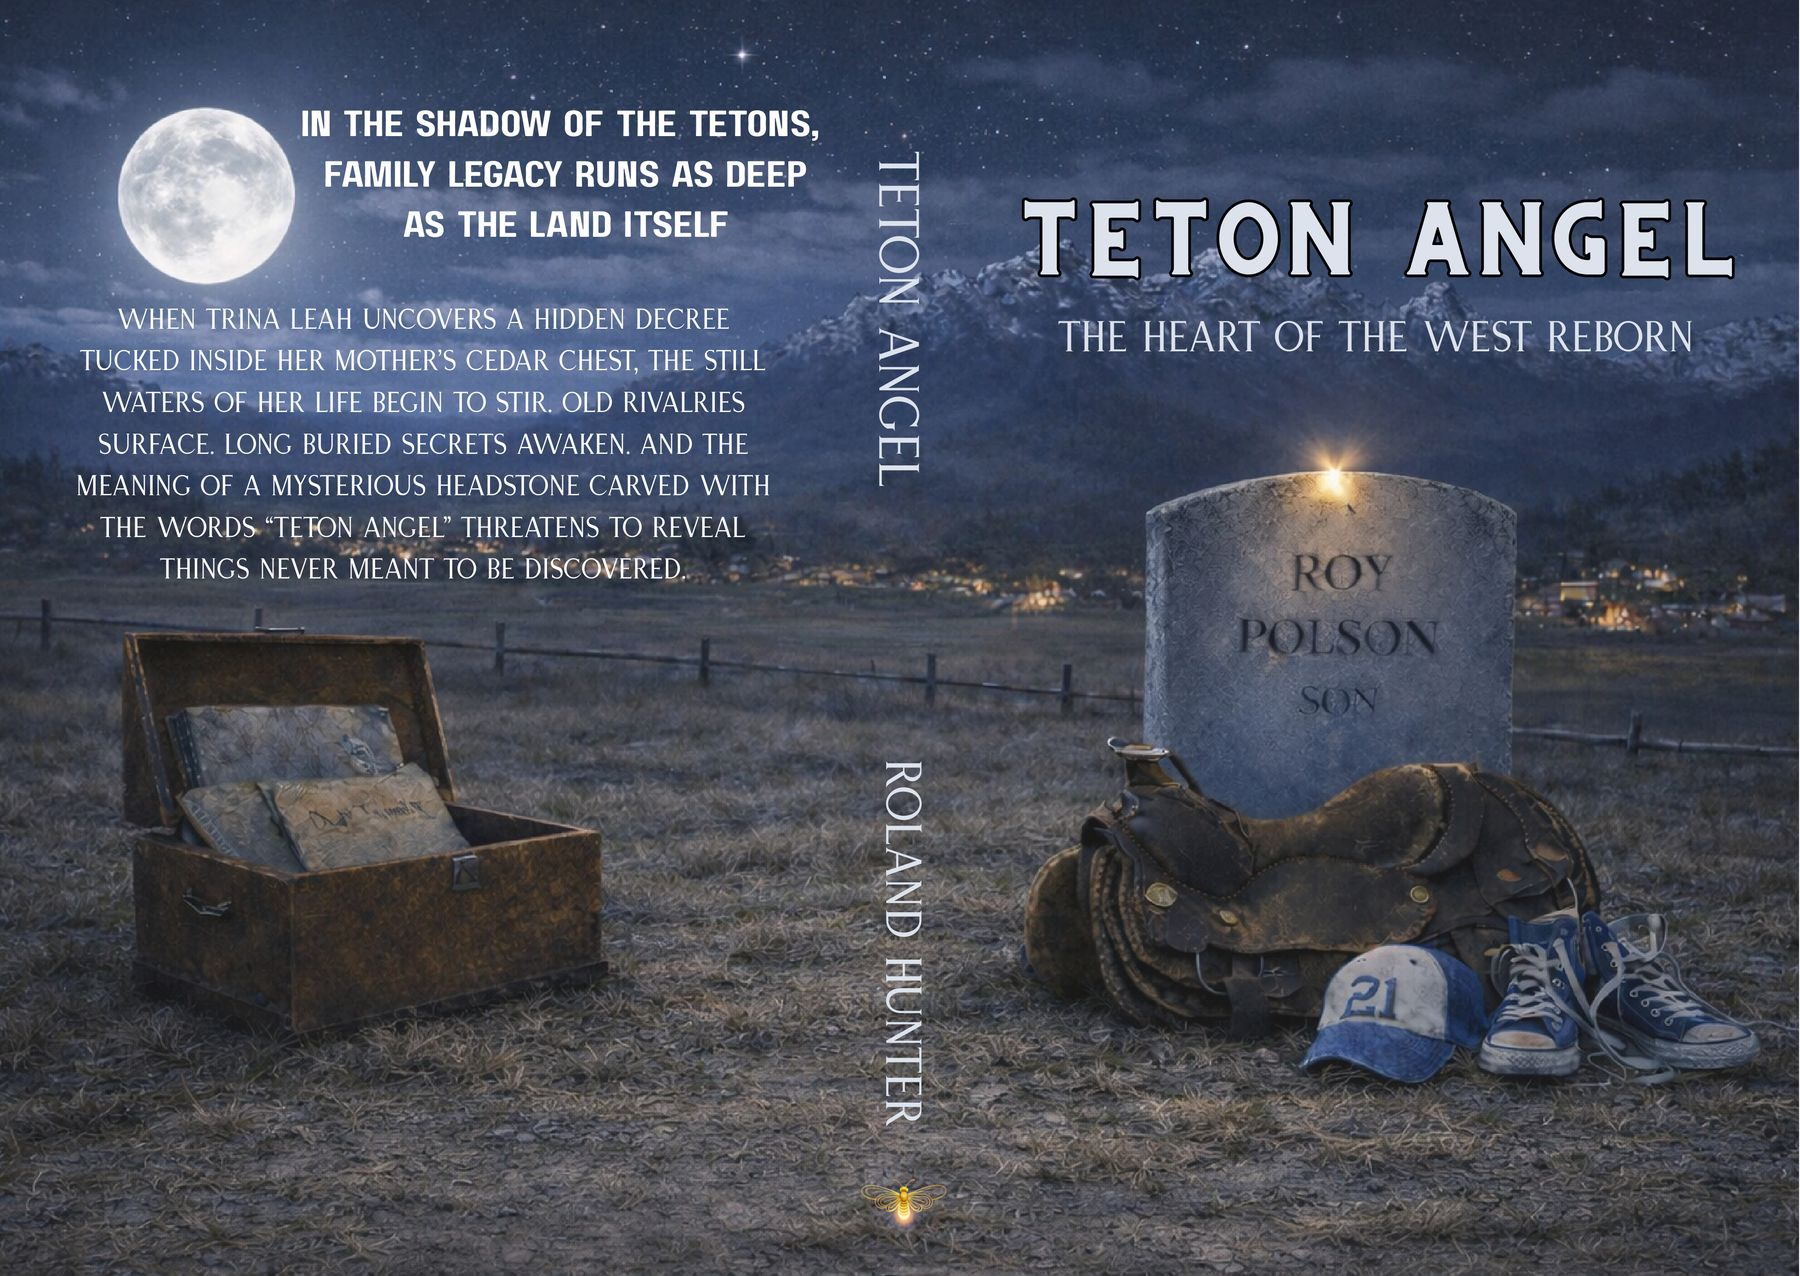
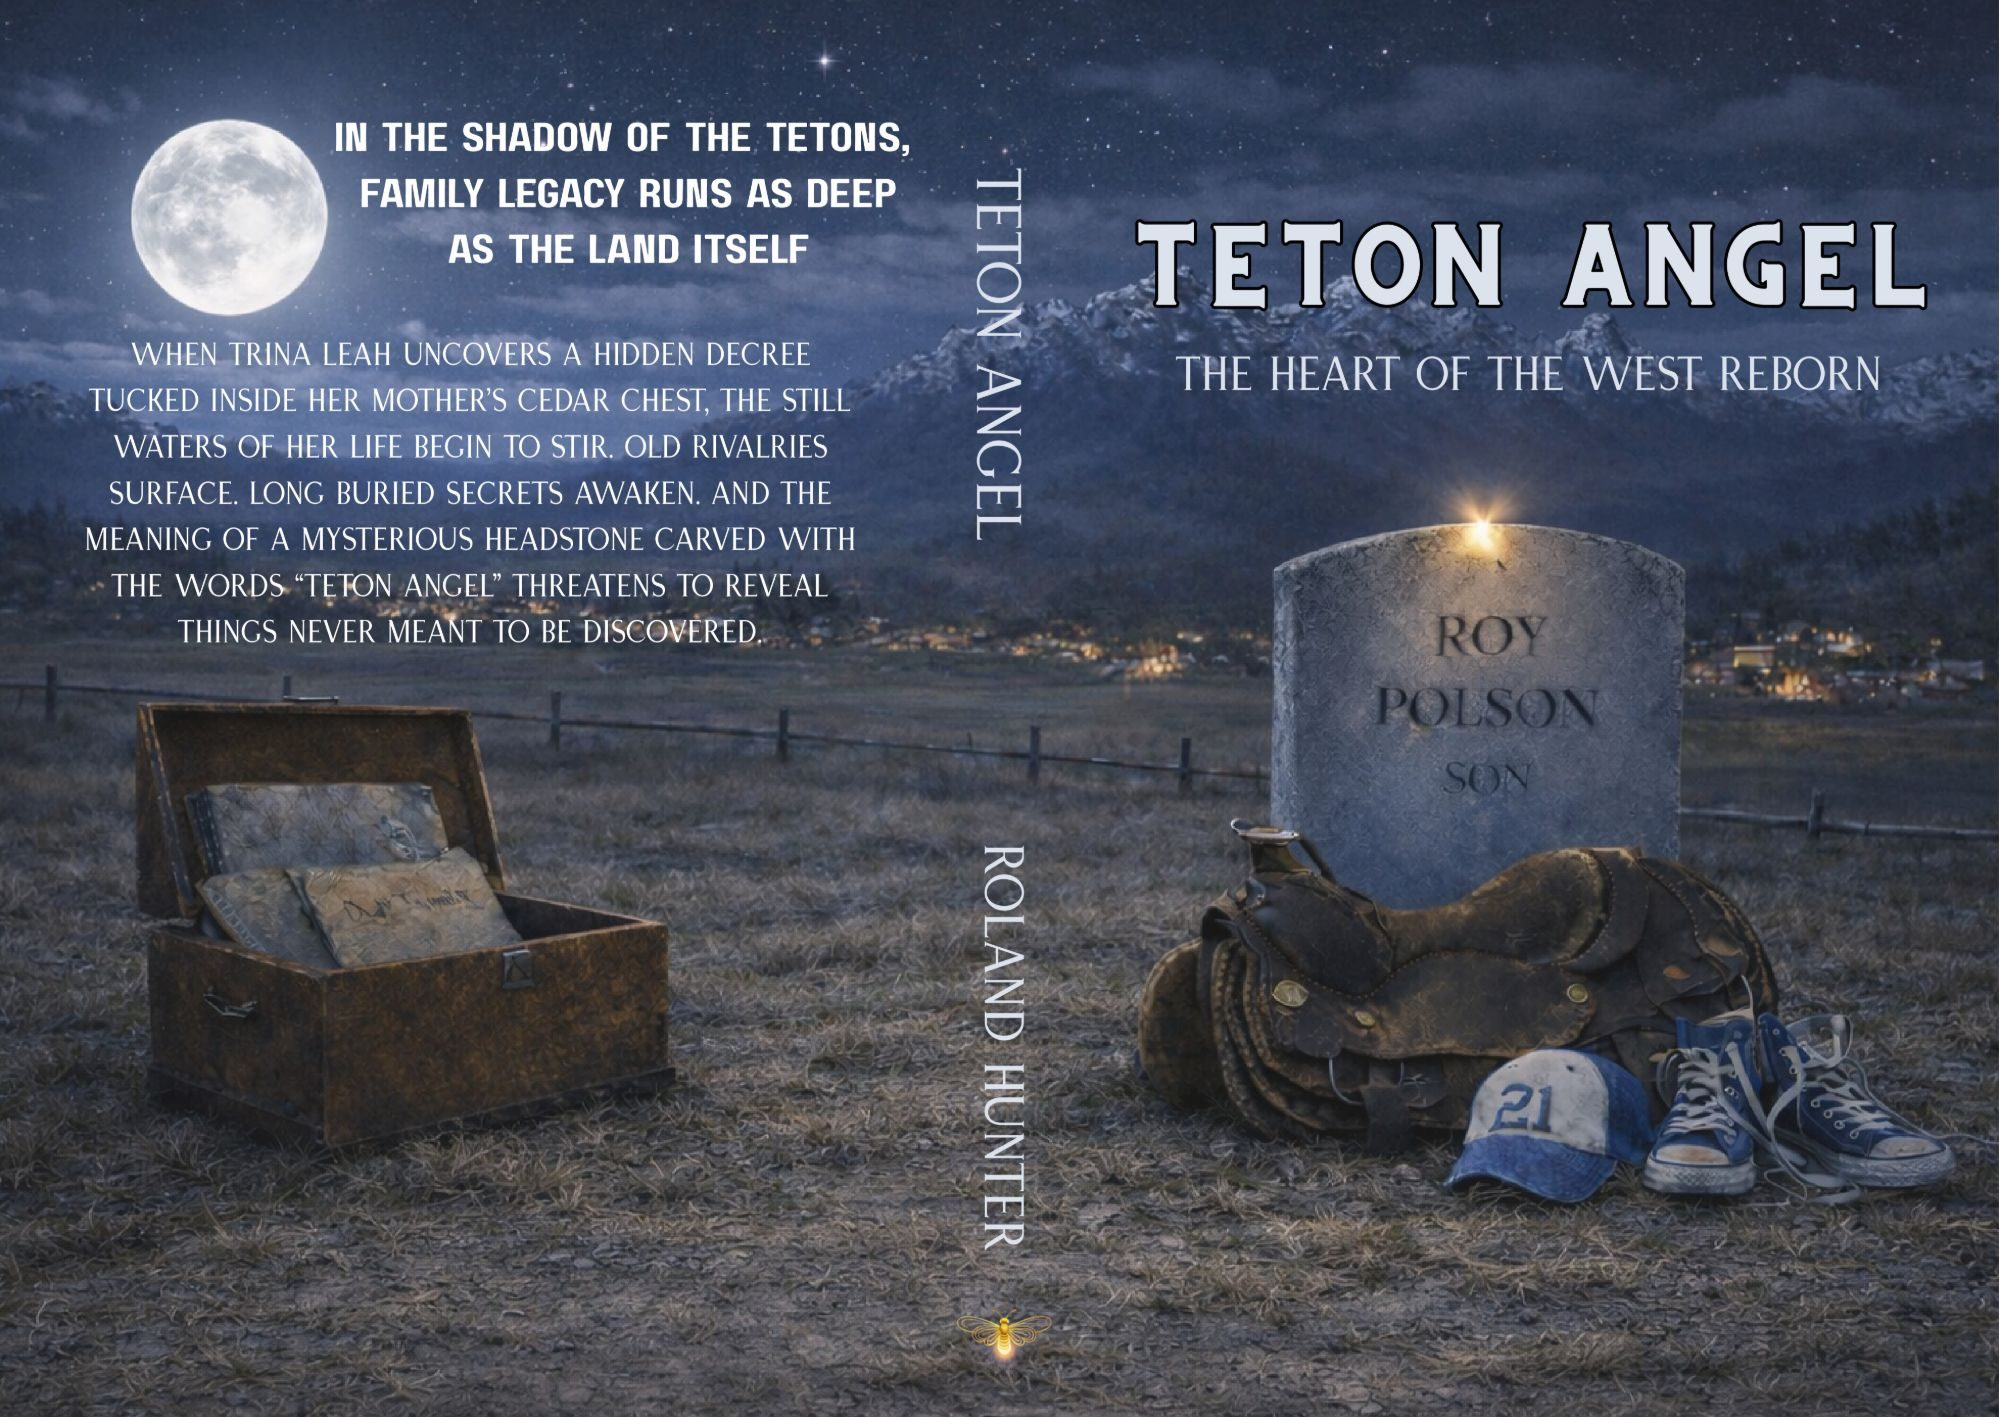
Fix stretched images, add gallery and new artwork
Images with width/height attributes were squashed because CSS capped
their width but not their height. Adds a lightbox gallery of the new
cover art, the Trina Leah illustrations and the angel headstone, swaps
in the high-res cover, and stops the panorama from upscaling a small
photo to full screen.

diff --git a/index.html b/index.html
@@ -4,10 +4,10 @@
 <meta charset="utf-8">
 <meta name="viewport" content="width=device-width, initial-scale=1">
 <title>Teton Angel | A Novel by Roland Hunter</title>
-<meta name="description" content="Teton Angel: The Heart of the West Reborn. A novel of faith, family and buried secrets in the shadow of the Teton Mountains, by Roland Hunter.">
+<meta name="description" content="Teton Angel: The Heart of the West Reborn. A Christian family mystery of faith, family and buried secrets in the shadow of the Teton Mountains, by Roland Hunter.">
 <meta property="og:title" content="Teton Angel: The Heart of the West Reborn">
 <meta property="og:description" content="In the shadow of the Tetons, family legacy runs as deep as the land itself. A novel by Roland Hunter.">
-<meta property="og:image" content="assets/img/book-flatlay.jpg">
+<meta property="og:image" content="assets/img/banner-book.jpg">
 <meta property="og:type" content="book">
 <meta name="twitter:card" content="summary_large_image">
 <link rel="icon" href="assets/img/icon.png">
@@ -25,6 +25,7 @@
       <li class="hide-sm"><a href="#book">The Book</a></li>
       <li class="hide-sm"><a href="#excerpt">Excerpt</a></li>
       <li class="hide-sm"><a href="#author">Author</a></li>
+      <li class="hide-sm"><a href="#gallery">Gallery</a></li>
       <li><a href="blog/">Blog</a></li>
       <li><a class="btn btn-gold" href="https://www.amazon.com/dp/B0GWW3YM25" target="_blank" rel="noopener">Buy</a></li>
     </ul>
@@ -35,7 +36,7 @@
   <canvas class="stars" id="stars" aria-hidden="true"></canvas>
   <div class="wrap hero-grid">
     <div>
-      <p class="eyebrow">A Novel of the American West</p>
+      <p class="eyebrow">A Christian Family Mystery of the West</p>
       <h1>Teton<br>Angel</h1>
       <p class="subtitle">The Heart of the West Reborn</p>
       <p class="lede">In the shadow of the Tetons, family legacy runs as deep as the land itself. A cedar chest, a hidden decree, and a headstone no one can explain. Some secrets were meant to stay buried. Some angels refuse to be forgotten.</p>
@@ -124,7 +125,7 @@
   </div>
 </section>
 
-<section class="panorama" aria-label="The Grand Tetons at dawn with an old barn in the sagebrush">
+<section class="panorama" aria-label="Teton Angel on a weathered table among a cowboy hat, rope, gloves, a compass, a key and a candle">
   <blockquote>"Seeing the present through the eyes of the past."</blockquote>
 </section>
 
@@ -146,6 +147,34 @@
     </div>
   </div>
 </section>
+
+<section class="gallery-section" id="gallery">
+  <div class="wrap">
+    <div class="center reveal">
+      <p class="eyebrow">The Gallery</p>
+      <h2>Faith. Family. Truth.</h2>
+      <hr class="rule">
+      <p class="lede" style="max-width:38rem;margin-inline:auto">Art and images from the world of <em>Teton Angel</em>. Tap any picture to see it full size.</p>
+    </div>
+    <div class="gallery">
+      <figure class="reveal"><a href="assets/img/faith-family-truth.jpg"><img src="assets/img/faith-family-truth.jpg" alt="Teton Angel title art: the Tetons at sunset over an open journal, lantern and saddle, by Roland Hunter" loading="lazy" width="1200" height="1200"></a><figcaption>Faith, family and truth</figcaption></figure>
+      <figure class="reveal"><a href="assets/img/angel-headstone.jpg"><img src="assets/img/angel-headstone.jpg" alt="Roy Polson's headstone engraved Teton Angel, topped with a small angel, with a saddle, number 21 cap and sneakers at its base beneath the mountains" loading="lazy" width="1536" height="1024"></a><figcaption>The stone on the hill</figcaption></figure>
+      <figure class="reveal"><a href="assets/img/trina-leah-poster.jpg"><img src="assets/img/trina-leah-poster.jpg" alt="Illustrated poster: Trina Leah reads a map beside an open chest, a rider on the trail behind her, titled Uncovering a Family Mystery: The Grand Teton Journey" loading="lazy" width="1024" height="1024"></a><figcaption>Trina Leah's journey</figcaption></figure>
+      <figure class="reveal"><a href="assets/img/flatlay-wide.jpg"><img src="assets/img/flatlay-wide.jpg" alt="Teton Angel hardcover on a rustic table with a cowboy hat, rope, lantern and compass" loading="lazy" width="1774" height="887"></a><figcaption>On the table</figcaption></figure>
+      <figure class="reveal"><a href="assets/img/full-cover.jpg"><img src="assets/img/full-cover.jpg" alt="The full wraparound cover of Teton Angel: back cover with a cedar chest under a full moon, spine, and front cover with the headstone" loading="lazy" width="2000" height="1417"></a><figcaption>The full wraparound cover</figcaption></figure>
+      <figure class="reveal"><a href="assets/img/cedar-chest.jpg"><img src="assets/img/cedar-chest.jpg" alt="An open wooden chest holding old papers and a photograph beside a leather journal stamped Teton Angel, mountains at sunset behind" loading="lazy" width="1536" height="1024"></a><figcaption>Her mother's cedar chest</figcaption></figure>
+      <figure class="reveal"><a href="assets/img/trina-leah-painted.jpg"><img src="assets/img/trina-leah-painted.jpg" alt="Watercolor-style illustration of Trina Leah reading a map at an open chest on a mountain trail" loading="lazy" width="572" height="1024"></a><figcaption>Trina Leah, in watercolor</figcaption></figure>
+      <figure class="reveal"><a href="assets/img/handmade-cover.jpg"><img src="assets/img/handmade-cover.jpg" alt="An early Teton Angel cover with a photo of a rider, the title and Roland Hunter's name over painted blue mountains" loading="lazy" width="900" height="1200"></a><figcaption>An early cover</figcaption></figure>
+      <figure class="reveal"><a href="assets/img/mormon-row.jpg"><img src="assets/img/mormon-row.jpg" alt="The Grand Tetons at dawn with an old barn in the sagebrush" loading="lazy" width="1170" height="658"></a><figcaption>Teton country at dawn</figcaption></figure>
+    </div>
+  </div>
+</section>
+
+<div class="lightbox" id="lightbox" hidden>
+  <button class="lb-close" aria-label="Close">&times;</button>
+  <img alt="">
+  <p class="lb-cap"></p>
+</div>
 
 <section style="background:var(--night-2)" id="blog">
   <div class="wrap">

diff --git a/assets/site.css b/assets/site.css
@@ -30,7 +30,7 @@ body {
   line-height: 1.7;
   -webkit-font-smoothing: antialiased;
 }
-img { max-width: 100%; display: block; }
+img { max-width: 100%; height: auto; display: block; }
 a { color: var(--gold-hot); }
 .wrap { width: min(var(--wrap), 100% - 32px); margin-inline: auto; }
 
@@ -188,10 +188,27 @@ section { padding: clamp(80px, 11vw, 140px) 0; position: relative; }
 @media (max-width: 520px) { .places { grid-template-columns: 1fr; } }
 
 /* panorama */
-.panorama { height: clamp(260px, 45vw, 520px); background: url("img/mormon-row.jpg") center / cover no-repeat fixed; position: relative; padding: 0; }
+.panorama { aspect-ratio: 1774 / 679; max-height: 620px; width: 100%; background: url("img/flatlay-panorama.jpg") center / cover no-repeat; position: relative; padding: 0; }
 .panorama::before { content: ""; position: absolute; inset: 0; background: linear-gradient(var(--night-2), transparent 25%, transparent 75%, var(--night)); }
 .panorama blockquote { position: absolute; inset: auto 0 12% 0; margin: 0; text-align: center; font-family: var(--display); font-style: italic; font-size: clamp(1.3rem, 3vw, 2.1rem); color: #fff; text-shadow: 0 2px 20px rgba(0,0,0,.8); padding: 0 16px; }
-@media (hover: none) { .panorama { background-attachment: scroll; } }
+@media (max-width: 700px) { .panorama { aspect-ratio: 4 / 3; } }
+
+/* gallery: natural aspect ratios, nothing cropped or stretched */
+.gallery-section { background: var(--night); }
+.gallery { columns: 3 300px; column-gap: 1.2rem; margin-top: 3rem; }
+.gallery figure { break-inside: avoid; margin: 0 0 1.2rem; background: var(--night-2); border: 1px solid var(--line); }
+.gallery a { display: block; overflow: hidden; cursor: zoom-in; }
+.gallery img { width: 100%; transition: transform .8s ease; }
+.gallery a:hover img { transform: scale(1.03); }
+.gallery figcaption { font-family: var(--label); letter-spacing: .18em; text-transform: uppercase; font-size: .7rem; color: var(--ink-soft); padding: .8rem 1rem; }
+.lightbox { position: fixed; inset: 0; z-index: 100; background: rgba(5,8,14,.94); display: grid; place-items: center; padding: 56px 16px 24px; }
+.lightbox[hidden] { display: none; }
+.lightbox img { max-width: 100%; max-height: calc(100svh - 120px); width: auto; height: auto; object-fit: contain; box-shadow: 0 30px 80px rgba(0,0,0,.7); }
+.lightbox .lb-cap { margin: .8rem 0 0; font-family: var(--label); letter-spacing: .2em; text-transform: uppercase; font-size: .75rem; color: var(--ink-soft); text-align: center; }
+.lb-close { position: absolute; top: 10px; right: 16px; background: none; border: 0; color: var(--ink); font-size: 2.4rem; cursor: pointer; line-height: 1; }
+
+/* headstone section sits over the angel headstone photo */
+.stone-section { background: linear-gradient(rgba(11,18,32,.82), rgba(11,18,32,.9) 60%, var(--night)), url("img/angel-headstone.jpg") center / cover no-repeat; }
 
 /* author */
 .author-photo { max-width: 440px; justify-self: center; }

diff --git a/assets/site.js b/assets/site.js
@@ -22,6 +22,22 @@
   var yr = document.getElementById("yr");
   if (yr) yr.textContent = new Date().getFullYear();
 
+  var lb = document.getElementById("lightbox");
+  if (lb) {
+    var lbImg = lb.querySelector("img"), lbCap = lb.querySelector(".lb-cap");
+    var close = function () { lb.hidden = true; lbImg.src = ""; };
+    document.querySelectorAll(".gallery a").forEach(function (a) {
+      a.addEventListener("click", function (e) {
+        e.preventDefault();
+        var img = a.querySelector("img"), cap = a.parentElement.querySelector("figcaption");
+        lbImg.src = a.href; lbImg.alt = img.alt; lbCap.textContent = cap ? cap.textContent : "";
+        lb.hidden = false;
+      });
+    });
+    lb.addEventListener("click", function (e) { if (e.target !== lbImg) close(); });
+    document.addEventListener("keydown", function (e) { if (e.key === "Escape" && !lb.hidden) close(); });
+  }
+
   var canvas = document.getElementById("stars");
   if (!canvas) return;
   var ctx = canvas.getContext("2d");

diff --git a/blog/index.html b/blog/index.html
@@ -5,6 +5,7 @@
 <meta name="viewport" content="width=device-width, initial-scale=1">
 <title>Blog | Teton Angel by Roland Hunter</title>
 <meta name="description" content="Stories behind Teton Angel: the writing life, the real Teton country, and the people who inspired the novel.">
+<meta property="og:image" content="../assets/img/banner-book.jpg">
 <link rel="icon" href="../assets/img/icon.png">
 <link rel="preconnect" href="https://fonts.googleapis.com">
 <link rel="preconnect" href="https://fonts.gstatic.com" crossorigin>
@@ -25,7 +26,7 @@
   </div>
 </nav>
 
-<header class="page-head">
+<header class="page-head" style="background:linear-gradient(rgba(11,18,32,.7),rgba(11,18,32,.85) 70%,var(--night)),url('../assets/img/banner-book.jpg') center/cover no-repeat">
   <div class="wrap">
     <p class="eyebrow">The Teton Angel Blog</p>
     <h1>Stories behind the story</h1>
